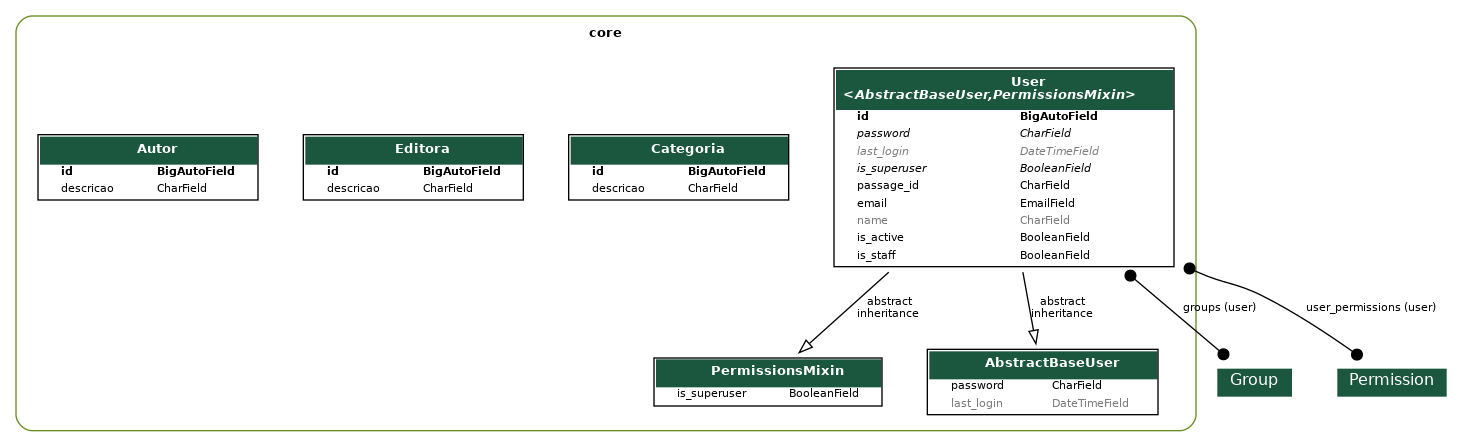
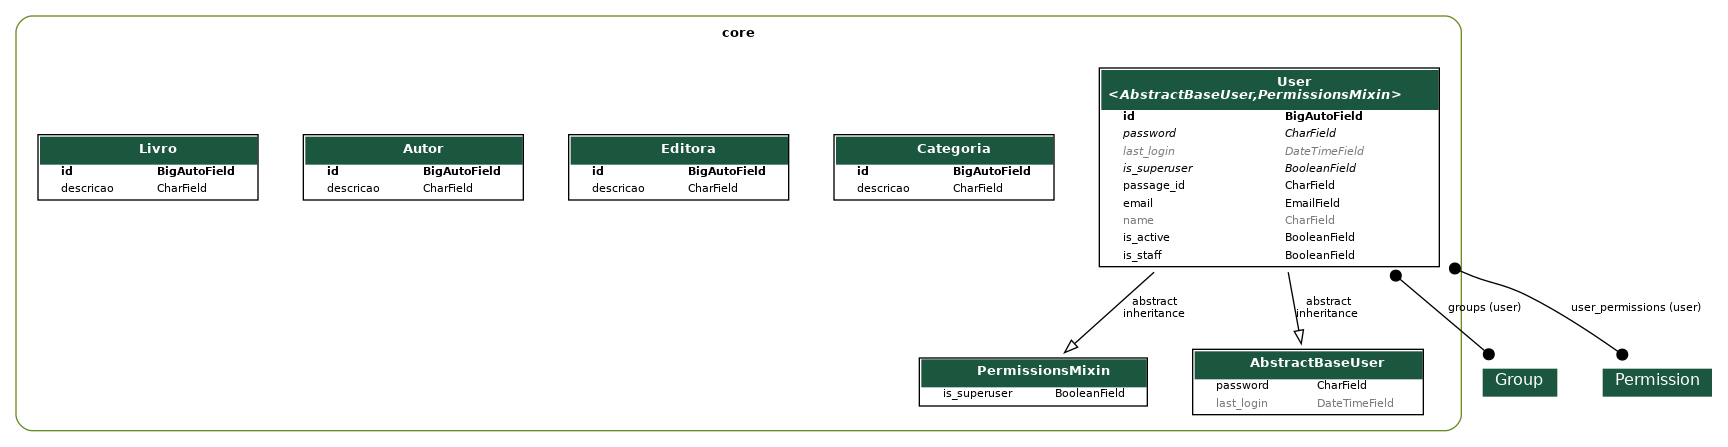
feat: criação da entidade para Livro

diff --git a/core/migrations/0008_livro_alter_autor_options.py b/core/migrations/0008_livro_alter_autor_options.py
@@ -1,0 +1,24 @@
+# Generated by Django 5.1.7 on 2025-05-23 11:43
+
+from django.db import migrations, models
+
+
+class Migration(migrations.Migration):
+
+    dependencies = [
+        ('core', '0007_autor'),
+    ]
+
+    operations = [
+        migrations.CreateModel(
+            name='Livro',
+            fields=[
+                ('id', models.BigAutoField(auto_created=True, primary_key=True, serialize=False, verbose_name='ID')),
+                ('descricao', models.CharField(max_length=100)),
+            ],
+        ),
+        migrations.AlterModelOptions(
+            name='autor',
+            options={'verbose_name': 'autor', 'verbose_name_plural': 'autores'},
+        ),
+    ]

diff --git a/app/urls.py b/app/urls.py
@@ -7,12 +7,13 @@ from drf_spectacular.views import (
 )
 from rest_framework.routers import DefaultRouter
 
-from core.views import AutorViewSet, CategoriaViewSet, EditoraViewSet, UserViewSet
+from core.views import AutorViewSet, CategoriaViewSet, EditoraViewSet, LivroViewSet,UserViewSet
 
 router = DefaultRouter()
 router.register(r"autores", AutorViewSet)
 router.register(r"categorias", CategoriaViewSet)
 router.register(r"editoras", EditoraViewSet) 
+router.register(r"livros", LivroViewSet) 
 router.register(r'usuarios', UserViewSet, basename='usuarios')
 
 urlpatterns = [

diff --git a/core/models/livro.py b/core/models/livro.py
@@ -1,0 +1,10 @@
+from django.db import models
+
+class Livro(models.Model):
+    titulo = models.CharField(max_length=255)
+    isbn = models.CharField(max_length=32, null=True, blank=True)
+    quantidade = models.IntegerField(default=0,  null=True, blank=True)
+    preco = models.DecimalField(max_digits=7, decimal_places=2, default=0, null=True, blank=True)
+
+    def __str__(self):
+        return f"({self.id}) {self.titulo} ({self.quantidade})"

diff --git a/core/models/editora.py b/core/models/editora.py
@@ -1,7 +1,8 @@
 from django.db import models
 
 class Editora(models.Model):
-    descricao = models.CharField(max_length=100)
+    nome = models.CharField(max_length=100)
+    site = models.URLField(max_length=200, blank=True, null=True)
 
     def __str__(self):
-        return self.descricao
+        return self.nome

diff --git a/core/views/livro.py b/core/views/livro.py
@@ -1,0 +1,8 @@
+from rest_framework.viewsets import ModelViewSet
+
+from core.models import Livro
+from core.serializers import LivroSerializer
+
+class LivroViewSet(ModelViewSet):
+    queryset = Livro.objects.all()
+    serializer_class = LivroSerializer

diff --git a/core/serializers/livro.py b/core/serializers/livro.py
@@ -1,0 +1,8 @@
+from rest_framework.serializers import ModelSerializer
+
+from core.models import Livro
+
+class LivroSerializer(ModelSerializer):
+    class Meta:
+        model = Livro
+        fields = "__all__"

diff --git a/core/admin.py b/core/admin.py
@@ -55,3 +55,4 @@ admin.site.register(models.User, UserAdmin)
 admin.site.register(models.Categoria)
 admin.site.register(models.Editora)
 admin.site.register(models.Autor)
+admin.site.register(models.Livro)

diff --git a/core/serializers/__init__.py b/core/serializers/__init__.py
@@ -2,3 +2,4 @@ from .user import UserSerializer
 from .categoria import CategoriaSerializer
 from .editora import EditoraSerializer
 from .autor import AutorSerializer
+from .livro import LivroSerializer

diff --git a/core/views/__init__.py b/core/views/__init__.py
@@ -2,3 +2,4 @@ from .user import UserViewSet
 from .categoria import CategoriaViewSet
 from .editora import EditoraViewSet
 from .autor import AutorViewSet
+from .livro import LivroViewSet

diff --git a/core/models/__init__.py b/core/models/__init__.py
@@ -2,3 +2,4 @@ from .user import User
 from .categoria import Categoria
 from .editora import Editora
 from .autor import Autor
+from .livro import Livro
